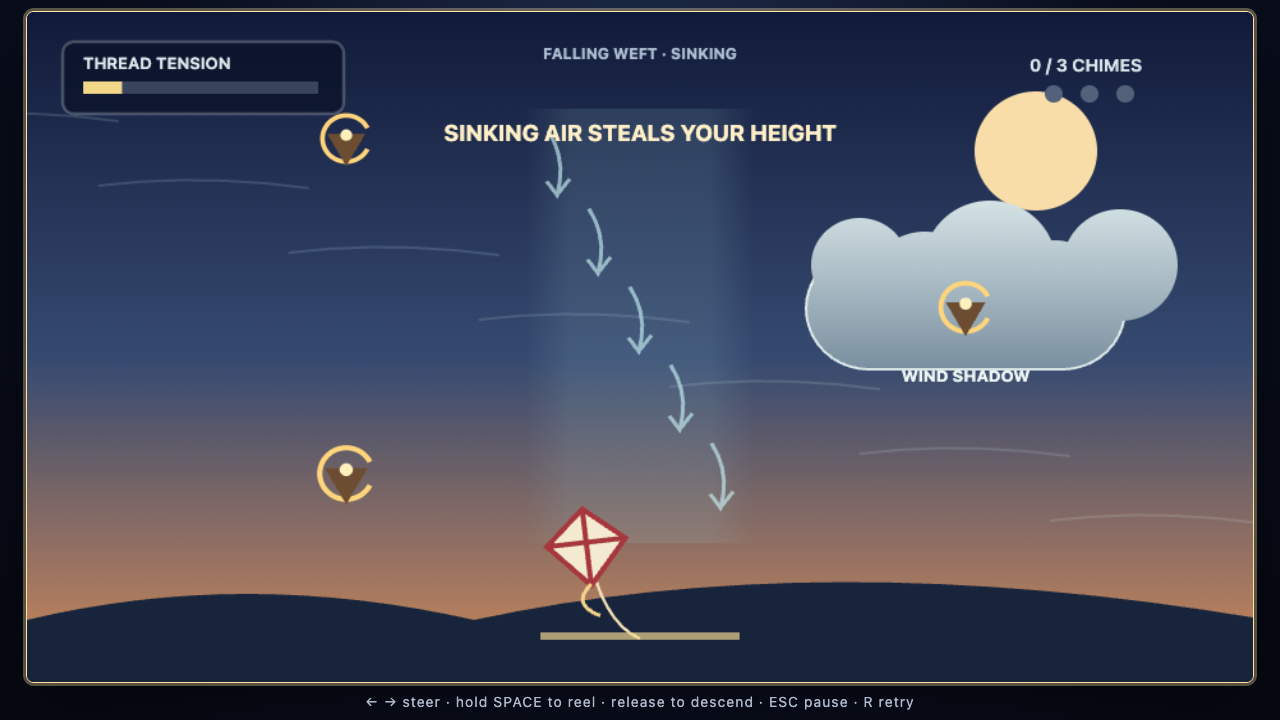
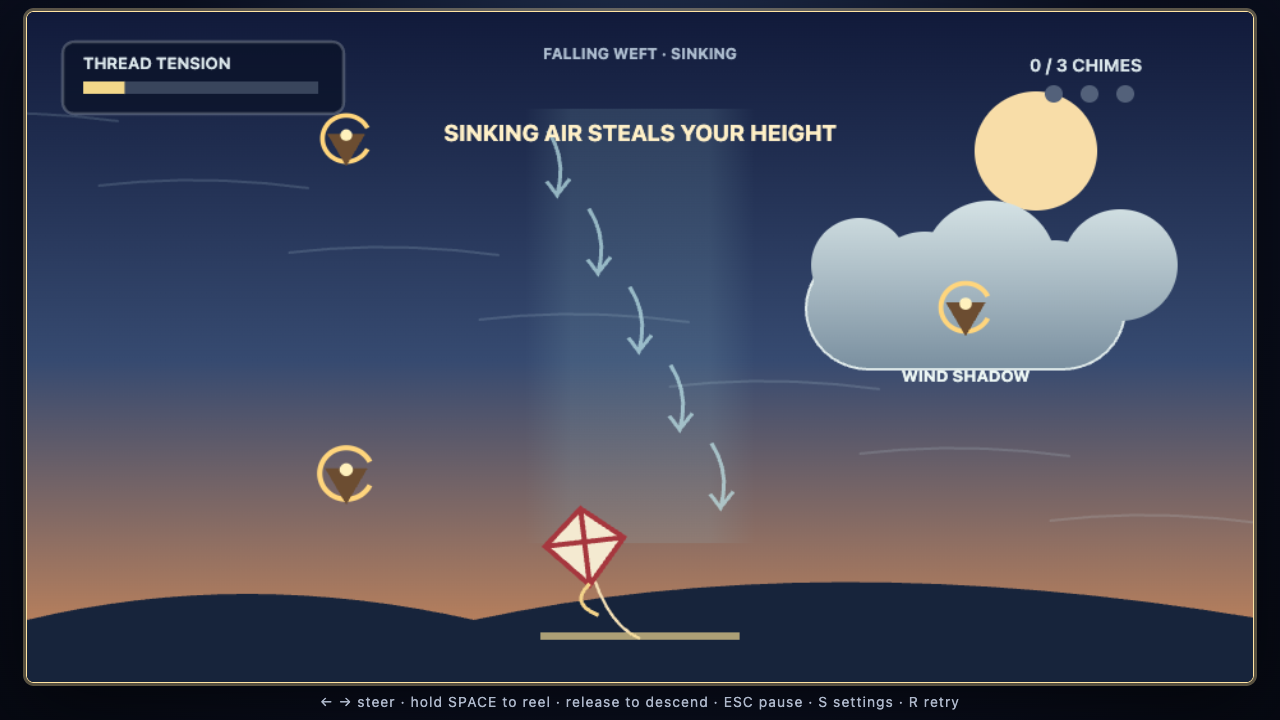
feat(ver11): persist settings and airspace progress

Changed region(s): [[0.2812, 0.9472, 0.75, 1.0], [0.4062, 0.7028, 0.5, 0.8556]]

diff --git a/ver11/game/src/main.js b/ver11/game/src/main.js
@@ -1,15 +1,28 @@
 import "./style.css";
 import { WIDTH, HEIGHT, FIXED_STEP, AIRSPACES, accessibleStatus, airspaceFor, createGame, downdraftAt, isSheltered, retry, startGame, togglePause, update, windAt } from "./model.js";
+import { DEFAULT_PREFERENCES, STORAGE_KEY, parsePreferences, serializePreferences, unlockAirspace } from "./preferences.js";
 
 const canvas = document.querySelector("#game");
 const ctx = canvas.getContext("2d");
 const live = document.querySelector("#live");
-const game = createGame();
+function loadPreferences() {
+  try { return parsePreferences(localStorage.getItem(STORAGE_KEY), AIRSPACES.length - 1); }
+  catch { return { ...DEFAULT_PREFERENCES }; }
+}
+
+let preferences = loadPreferences();
+const game = createGame(preferences.unlockedAirspace);
 const keys = new Set();
 let last = performance.now();
 let accumulator = 0;
 let audio;
 let lastAccessible = "";
+let settingsOpen = false;
+let selectedSetting = 0;
+
+function savePreferences() {
+  try { localStorage.setItem(STORAGE_KEY, serializePreferences(preferences)); } catch { /* Play remains available without storage. */ }
+}
 
 function ensureAudio() {
   if (!audio) audio = new AudioContext();
@@ -17,13 +30,13 @@ function ensureAudio() {
 }
 
 function tone(frequency, duration = 0.12, volume = 0.05, delay = 0) {
-  if (!audio) return;
+  if (!audio || preferences.volume === 0) return;
   const oscillator = audio.createOscillator();
   const gain = audio.createGain();
   oscillator.type = "sine";
   oscillator.frequency.value = frequency;
   gain.gain.setValueAtTime(0.001, audio.currentTime + delay);
-  gain.gain.exponentialRampToValueAtTime(volume, audio.currentTime + delay + 0.015);
+  gain.gain.exponentialRampToValueAtTime(volume * preferences.volume, audio.currentTime + delay + 0.015);
   gain.gain.exponentialRampToValueAtTime(0.001, audio.currentTime + delay + duration);
   oscillator.connect(gain).connect(audio.destination);
   oscillator.start(audio.currentTime + delay);
@@ -38,11 +51,42 @@ function handleEvents(events) {
   }
 }
 
+function openSettings() {
+  keys.clear();
+  if (game.mode === "playing") togglePause(game);
+  settingsOpen = true;
+}
+
+function closeSettings() {
+  settingsOpen = false;
+  canvas.focus();
+}
+
+function adjustSetting(direction) {
+  if (selectedSetting === 0) preferences = { ...preferences, volume: Math.max(0, Math.min(1, preferences.volume + direction * 0.25)) };
+  else preferences = { ...preferences, reducedMotion: !preferences.reducedMotion };
+  savePreferences();
+}
+
 window.addEventListener("keydown", (event) => {
-  if (["ArrowLeft", "ArrowRight", "Space", "Enter", "Escape"].includes(event.code)) event.preventDefault();
-  if (event.repeat && ["Enter", "Escape", "KeyR"].includes(event.code)) return;
+  if (["ArrowLeft", "ArrowRight", "ArrowUp", "ArrowDown", "Space", "Enter", "Escape"].includes(event.code)) event.preventDefault();
+  if (event.repeat && ["Enter", "Escape", "KeyR", "KeyS"].includes(event.code)) return;
+  if (settingsOpen) {
+    if (event.code === "Escape" || event.code === "KeyS") closeSettings();
+    else if (event.code === "ArrowUp" || event.code === "ArrowDown") selectedSetting = selectedSetting === 0 ? 1 : 0;
+    else if (event.code === "ArrowLeft") adjustSetting(-1);
+    else if (event.code === "ArrowRight" || event.code === "Enter") adjustSetting(1);
+    return;
+  }
+  if (event.code === "KeyS") { openSettings(); return; }
   keys.add(event.code);
-  if (event.code === "Enter") { ensureAudio(); startGame(game); canvas.focus(); }
+  if (event.code === "Enter") {
+    ensureAudio();
+    const previousAirspace = game.airspace;
+    startGame(game);
+    if (game.airspace !== previousAirspace) { preferences = unlockAirspace(preferences, game.airspace); savePreferences(); }
+    canvas.focus();
+  }
   if (event.code === "Escape") togglePause(game);
   if (event.code === "KeyR") { ensureAudio(); retry(game); }
 });
@@ -91,7 +135,8 @@ function drawDowndrafts() {
     ctx.save(); ctx.strokeStyle = "#c5edf0aa"; ctx.lineWidth = 3;
     for (let i = 0; i < 5; i++) {
       const x = draft.x + 25 + i * 32;
-      const offset = (game.elapsed * 90 + i * 63) % (draft.height + 55);
+      const visualTime = preferences.reducedMotion ? 0 : game.elapsed;
+      const offset = (visualTime * 90 + i * 63) % (draft.height + 55);
       const y = draft.y - 25 + offset;
       ctx.beginPath(); ctx.moveTo(x - 7, y - 34); ctx.quadraticCurveTo(x + 8, y - 10, x, y + 18);
       ctx.lineTo(x - 8, y + 7); ctx.moveTo(x, y + 18); ctx.lineTo(x + 10, y + 5); ctx.stroke();
@@ -110,7 +155,8 @@ function drawWind() {
   const alpha = wind.phase === "calm" ? 0.16 : wind.phase === "warning" ? 0.42 : 0.8;
   ctx.save(); ctx.globalAlpha = alpha; ctx.strokeStyle = wind.phase === "gust" ? "#fff0c0" : "#cce8ee"; ctx.lineWidth = wind.phase === "gust" ? 4 : 2;
   for (let i = 0; i < 7; i++) {
-    const offset = ((game.elapsed * (wind.phase === "gust" ? 210 : 55) + i * 149) % 1080) - 60;
+    const visualTime = preferences.reducedMotion ? 0 : game.elapsed;
+    const offset = ((visualTime * (wind.phase === "gust" ? 210 : 55) + i * 149) % 1080) - 60;
     const x = wind.direction > 0 ? offset : WIDTH - offset;
     const y = 86 + i * 54;
     ctx.beginPath(); ctx.moveTo(x - wind.direction * 80, y); ctx.quadraticCurveTo(x, y - 10, x + wind.direction * 85, y + 2); ctx.stroke();
@@ -124,7 +170,7 @@ function drawWind() {
 
 function drawRibbon(ribbon, collected, index) {
   if (collected) return;
-  const pulse = 1 + Math.sin(game.elapsed * 3 + index) * 0.07;
+  const pulse = preferences.reducedMotion ? 1 : 1 + Math.sin(game.elapsed * 3 + index) * 0.07;
   ctx.save(); ctx.translate(ribbon.x, ribbon.y); ctx.scale(pulse, pulse);
   ctx.strokeStyle = "#ffd57c"; ctx.fillStyle = "#6c4d31"; ctx.lineWidth = 4;
   ctx.beginPath(); ctx.arc(0, 0, 20, Math.PI * 0.15, Math.PI * 1.85); ctx.stroke();
@@ -166,30 +212,51 @@ function overlay(title, subtitle, prompt) {
   ctx.fillStyle = "#ffe09a"; ctx.font = "700 15px system-ui"; ctx.fillText(prompt, WIDTH / 2, 306);
 }
 
+function drawSettings() {
+  ctx.fillStyle = "#071022ee"; ctx.fillRect(0, 0, WIDTH, HEIGHT);
+  ctx.textAlign = "center"; ctx.fillStyle = "#f5e6bc"; ctx.font = "700 46px Georgia, serif"; ctx.fillText("WIND TUNING", WIDTH / 2, 142);
+  ctx.fillStyle = "#9fb1c5"; ctx.font = "500 15px system-ui"; ctx.fillText("ARROWS CHANGE · S OR ESC CLOSE", WIDTH / 2, 176);
+  const rows = [
+    { label: "SOUND VOLUME", value: preferences.volume === 0 ? "MUTED" : `${Math.round(preferences.volume * 100)}%` },
+    { label: "REDUCED MOTION", value: preferences.reducedMotion ? "ON" : "OFF" },
+  ];
+  rows.forEach((row, index) => {
+    const y = 244 + index * 88;
+    roundRect(250, y - 34, 460, 64, 8, selectedSetting === index ? "#273c58" : "#101d35", selectedSetting === index ? "#ffe09a" : "#52647b");
+    ctx.textAlign = "left"; ctx.fillStyle = "#d7e2e7"; ctx.font = "650 16px system-ui"; ctx.fillText(row.label, 278, y + 6);
+    ctx.textAlign = "right"; ctx.fillStyle = selectedSetting === index ? "#ffe09a" : "#b9c7d2"; ctx.fillText(`‹  ${row.value}  ›`, 680, y + 6);
+  });
+  ctx.textAlign = "center"; ctx.fillStyle = "#91a5b8"; ctx.font = "400 14px system-ui";
+  ctx.fillText("Progress and settings save automatically on this device.", WIDTH / 2, 438);
+}
+
 function draw() {
   drawSky(); drawWind(); drawDowndrafts(); drawClouds();
   airspaceFor(game).ribbons.forEach((r, i) => drawRibbon(r, game.ribbons[i], i));
   if (game.mode !== "title") { drawKite(); drawHud(); }
-  if (game.mode === "title") overlay("GALE THREAD", "read the gust · mind the thread · bring three chimes home", "PRESS ENTER TO LAUNCH");
-  if (game.mode === "paused") overlay("WIND HELD", "the thread waits with you", "ESC TO CONTINUE · R TO RETRY");
+  if (game.mode === "title") overlay("GALE THREAD", `continue from ${airspaceFor(game).name.toLowerCase()} · bring three chimes home`, "ENTER TO LAUNCH · S SETTINGS");
+  if (game.mode === "paused") overlay("WIND HELD", "the thread waits with you", "ESC CONTINUE · S SETTINGS · R RETRY");
   if (game.mode === "lost") overlay("THREAD PARTED", "the gale took the line, not the lesson", "ENTER OR R TO TRY AGAIN");
   if (game.mode === "won" && game.airspace === 0) overlay("FIRST CHIMES RETURN", "the silver cloud waits beyond the open wind", "ENTER TO CROSS INTO CLOUD LEE");
   if (game.mode === "won" && game.airspace === 1) overlay("TWO SKIES ANSWER", "a falling seam divides the final sky", "ENTER TO CROSS INTO FALLING WEFT");
   if (game.mode === "won" && game.airspace === AIRSPACES.length - 1) overlay("THREE SKIES ANSWER", "nine chimes return on three unbroken threads", "ENTER TO FLY FALLING WEFT AGAIN");
+  if (settingsOpen) drawSettings();
 }
 
 function frame(now) {
   accumulator += Math.min((now - last) / 1000, 0.1); last = now;
   while (accumulator >= FIXED_STEP) {
     const steer = (keys.has("ArrowRight") || keys.has("KeyD") ? 1 : 0) - (keys.has("ArrowLeft") || keys.has("KeyA") ? 1 : 0);
-    handleEvents(update(game, { steer, reel: keys.has("Space") }, FIXED_STEP));
+    if (!settingsOpen) handleEvents(update(game, { steer, reel: keys.has("Space") }, FIXED_STEP));
     accumulator -= FIXED_STEP;
   }
   draw();
-  const status = accessibleStatus(game);
+  const status = settingsOpen
+    ? `Settings. ${selectedSetting === 0 ? "Sound volume" : "Reduced motion"} selected. Sound volume ${Math.round(preferences.volume * 100)} percent. Reduced motion ${preferences.reducedMotion ? "on" : "off"}. Use arrow keys to change. Press S or Escape to close.`
+    : accessibleStatus(game);
   canvas.setAttribute("aria-label", status);
   if (status !== lastAccessible && (game.mode !== "playing" || Math.floor(game.elapsed) % 3 === 0)) { live.textContent = status; lastAccessible = status; }
-  window.__GALE_THREAD__ = { snapshot: () => structuredClone(game) };
+  window.__GALE_THREAD__ = { snapshot: () => structuredClone({ ...game, preferences, settingsOpen, selectedSetting }) };
   requestAnimationFrame(frame);
 }
 requestAnimationFrame(frame);

diff --git a/ver11/game/e2e/gale-thread.spec.js b/ver11/game/e2e/gale-thread.spec.js
@@ -96,9 +96,49 @@ test("the third airspace crosses sinking air and completes the M2 route", async 
   await pilot(page, [{ x: 720, y: 382 }, { x: 245, y: 238 }, { x: 710, y: 108 }]);
   await page.keyboard.press("Enter");
   await expect.poll(async () => (await snapshot(page)).airspace).toBe(2);
+  await expect.poll(async () => page.evaluate(() => JSON.parse(localStorage.getItem("gale-thread:v11")).unlockedAirspace)).toBe(2);
   await page.screenshot({ path: evidence("m2-falling-weft-entry.png") });
   const crossedDowndraft = await pilot(page, [{ x: 250, y: 372 }, { x: 735, y: 238 }, { x: 250, y: 102 }], "m2-falling-weft-sinking.png");
   expect(crossedDowndraft).toBe(true);
   await page.screenshot({ path: evidence("m2-falling-weft-won.png") });
   await expect(page.locator("canvas")).toHaveAttribute("aria-label", /Three skies answer/);
+});
+
+test("settings and reached airspace persist across reloads", async ({ page }) => {
+  await page.goto("/");
+  await page.evaluate(() => localStorage.setItem("gale-thread:v11", JSON.stringify({
+    version: 1, unlockedAirspace: 2, volume: 0.75, reducedMotion: false,
+  })));
+  await page.reload();
+  await expect.poll(async () => (await snapshot(page))?.airspace).toBe(2);
+  let state = await snapshot(page);
+  expect(state.airspace).toBe(2);
+  expect(state.mode).toBe("title");
+  await expect(page.locator("canvas")).toHaveAttribute("aria-label", /GALE THREAD title/);
+
+  await page.keyboard.press("s");
+  await expect(page.locator("canvas")).toHaveAttribute("aria-label", /Sound volume 75 percent/);
+  await page.keyboard.press("ArrowRight");
+  await page.keyboard.press("ArrowDown");
+  await page.keyboard.press("Enter");
+  await expect(page.locator("canvas")).toHaveAttribute("aria-label", /Reduced motion on/);
+  await page.screenshot({ path: evidence("m2-settings.png") });
+  await page.keyboard.press("Escape");
+  await page.reload();
+  await expect.poll(async () => (await snapshot(page))?.airspace).toBe(2);
+  state = await snapshot(page);
+  expect(state.airspace).toBe(2);
+  expect(state.preferences.volume).toBe(1);
+  expect(state.preferences.reducedMotion).toBe(true);
+});
+
+test("a corrupt save safely returns to defaults", async ({ page }) => {
+  await page.goto("/");
+  await page.evaluate(() => localStorage.setItem("gale-thread:v11", "{not-json"));
+  await page.reload();
+  await expect.poll(async () => (await snapshot(page))?.airspace).toBe(0);
+  const state = await snapshot(page);
+  expect(state.airspace).toBe(0);
+  expect(state.preferences.volume).toBe(0.75);
+  expect(state.preferences.reducedMotion).toBe(false);
 });

diff --git a/ver11/game/src/preferences.js b/ver11/game/src/preferences.js
@@ -1,0 +1,47 @@
+export const STORAGE_KEY = "gale-thread:v11";
+
+export const DEFAULT_PREFERENCES = Object.freeze({
+  version: 1,
+  unlockedAirspace: 0,
+  volume: 0.75,
+  reducedMotion: false,
+});
+
+export function parsePreferences(raw, maxAirspace = 2) {
+  if (typeof raw !== "string" || raw.length > 2_000) return { ...DEFAULT_PREFERENCES };
+  try {
+    const value = JSON.parse(raw);
+    const valid = value
+      && value.version === 1
+      && Number.isInteger(value.unlockedAirspace)
+      && value.unlockedAirspace >= 0
+      && value.unlockedAirspace <= maxAirspace
+      && typeof value.volume === "number"
+      && Number.isFinite(value.volume)
+      && value.volume >= 0
+      && value.volume <= 1
+      && typeof value.reducedMotion === "boolean";
+    if (!valid) return { ...DEFAULT_PREFERENCES };
+    return {
+      version: 1,
+      unlockedAirspace: value.unlockedAirspace,
+      volume: Math.round(value.volume * 4) / 4,
+      reducedMotion: value.reducedMotion,
+    };
+  } catch {
+    return { ...DEFAULT_PREFERENCES };
+  }
+}
+
+export function serializePreferences(preferences) {
+  return JSON.stringify({
+    version: 1,
+    unlockedAirspace: preferences.unlockedAirspace,
+    volume: preferences.volume,
+    reducedMotion: preferences.reducedMotion,
+  });
+}
+
+export function unlockAirspace(preferences, airspace) {
+  return { ...preferences, unlockedAirspace: Math.max(preferences.unlockedAirspace, airspace) };
+}

diff --git a/ver11/game/tests/preferences.test.js b/ver11/game/tests/preferences.test.js
@@ -1,0 +1,19 @@
+import test from "node:test";
+import assert from "node:assert/strict";
+import { DEFAULT_PREFERENCES, parsePreferences, serializePreferences, unlockAirspace } from "../src/preferences.js";
+
+test("valid saved progress and accessibility settings round-trip", () => {
+  const saved = { version: 1, unlockedAirspace: 2, volume: 0.25, reducedMotion: true };
+  assert.deepEqual(parsePreferences(serializePreferences(saved)), saved);
+});
+
+test("missing, malformed, or out-of-range saves recover to safe defaults", () => {
+  for (const raw of [null, "{broken", JSON.stringify({ version: 1, unlockedAirspace: 99, volume: 4, reducedMotion: "yes" })]) {
+    assert.deepEqual(parsePreferences(raw), DEFAULT_PREFERENCES);
+  }
+});
+
+test("unlocking never loses previously reached progress", () => {
+  const current = { ...DEFAULT_PREFERENCES, unlockedAirspace: 2 };
+  assert.equal(unlockAirspace(current, 1).unlockedAirspace, 2);
+});

diff --git a/ver11/game/index.html b/ver11/game/index.html
@@ -10,7 +10,7 @@
     <main>
       <canvas id="game" width="960" height="540" tabindex="0" role="application" aria-label="GALE THREAD title. Press Enter to begin."></canvas>
       <p id="live" class="sr-only" aria-live="polite"></p>
-      <p class="controls">← → steer · hold SPACE to reel · release to descend · ESC pause · R retry</p>
+      <p class="controls">← → steer · hold SPACE to reel · release to descend · ESC pause · S settings · R retry</p>
     </main>
     <script type="module" src="/src/main.js"></script>
   </body>

diff --git a/ver11/docs/status.md b/ver11/docs/status.md
@@ -5,7 +5,7 @@
 ## 現在状態
 
 - 現在版: v11.0 (`ver11/`)
-- 段階: M0・M1完了、M2進行中。全3空域を連続プレイ可能
+- 段階: M0・M1・M2完了。全3空域、設定、進行保存を検証済み
 - 過去版変更: v10.1最終批評のみ。既存の未コミット`ver07.1/`差分を保持
 
 ## 完成条件
@@ -31,11 +31,15 @@
 - 第3空域「FALLING WEFT」を追加した。中央の下降気流では巻き上げが鈍り、解放中は約2倍の速さで下降するため、張力を逃がす安全入力にも高度の代償が生まれる。右上の雲帯と左右交互の片配置により、既存規則を同時に使う。
 - 単体16/16、構文検査、production build、Chrome E2E 4/4に合格した。実キー入力で3空域9片、雲帯、下降気流横断、最終着地まで通した。
 - `m2-falling-weft-entry.png`、`m2-falling-weft-sinking.png`、`m2-falling-weft-won.png`を目視し、下降矢印、雲、片、凧、糸、状態、最終結果を判別できることを確認した。導入文と常設ラベルの重なりは、導入中に常設ラベルを隠して解消した。
+- Sから開く設定画面へ音量5段階と動き軽減を追加した。動き軽減は風線、下降矢印、片の脈動だけを止め、規則の時間と予告は保つ。設定中はプレイを安全に停止する。
+- version付きlocalStorageへ設定と最遠到達空域を保存し、次回はその空域から再開する。JSON破損、型・範囲不正、storage例外は既定値へ戻し、プレイを継続する。
+- 単体19/19、構文検査、production build、Chrome E2E 6/6に合格した。全3空域通しに加え、実キー設定、再読込、到達空域保存、破損復旧を確認した。
+- `m2-settings.png`を目視し、1280×720で選択枠、音量値、動き軽減値、操作説明が欠けや重なりなく判別できることを確認した。M2を完了する。
 
 ## 未解決課題
 
-- 音量と動き軽減、進行保存は未実装。
+- M3の後半3空域と終演は未実装。
 
 ## 次の最優先作業
 
-M2の設定と保存を実装する。音量・動き軽減をキーボードで変更できる設定画面と、到達済み空域・設定のlocalStorage保存、破損時の安全な初期化を一つの製品機能として検証する。
+M3第4空域を実装する。既存の雲帯・下降気流とは異なり、予告された突風を位置取りの利益へ変える規則を一つだけ導入し、片配置、規則テスト、実キー通し、画面証拠まで完成させる。

diff --git a/ver11/README.md b/ver11/README.md
@@ -6,8 +6,8 @@
 
 - M0 白紙企画比較・独立性確認: 完了
 - M1 中核縦切り: 完了。1空域、突風予告、張力、3片、帰還、切断、再挑戦を実装・検証済み
-- M2 段階導入: 進行中。3空域を連続プレイでき、雲帯と下降気流を実装済み
-- 単体16/16、構文検査、production build、Chrome E2E 4/4に合格
+- M2 段階導入: 完了。3空域、雲帯、下降気流、設定、進行保存を実装済み
+- 単体19/19、構文検査、production build、Chrome E2E 6/6に合格
 
 ## 起動
 
@@ -17,9 +17,9 @@ npm install
 npm run dev
 ```
 
-Enterで開始する。左右キーまたはA/Dで凧を操り、Spaceを押している間は糸を巻いて上昇する。Spaceを離すと糸を緩めて下降する。空の帯に表示される突風予告中に進路を整え、突風が吹いている間は巻き続けない。三つの風鈴片を集めたら、地上中央の着地点へ降りる。第2空域では銀色の雲帯へ入ると突風を遮れる。第3空域では下降気流の矢印帯を横切る間、上昇が鈍り、糸を緩めると高度を速く失う。Escapeでポーズ、Rで再挑戦する。
+Enterで開始する。左右キーまたはA/Dで凧を操り、Spaceを押している間は糸を巻いて上昇する。Spaceを離すと糸を緩めて下降する。空の帯に表示される突風予告中に進路を整え、突風が吹いている間は巻き続けない。三つの風鈴片を集めたら、地上中央の着地点へ降りる。第2空域では銀色の雲帯へ入ると突風を遮れる。第3空域では下降気流の矢印帯を横切る間、上昇が鈍り、糸を緩めると高度を速く失う。Escapeでポーズ、Rで再挑戦する。Sで設定を開き、矢印キーで音量と動き軽減を変更する。設定と到達済み空域はブラウザへ自動保存され、次回は最も先の空域から再開する。
 
-`npm run verify`で規則テスト、構文検査、production build、Chrome E2Eをまとめて実行する。E2Eは実キー入力でポーズ、糸切断、再挑戦、全3空域の9片回収、雲帯利用、下降気流横断、着地までを検証する。
+`npm run verify`で規則テスト、構文検査、production build、Chrome E2Eをまとめて実行する。E2Eは実キー入力でポーズ、糸切断、再挑戦、全3空域の9片回収、雲帯利用、下降気流横断、着地に加え、設定・進行の再読込と破損保存の復旧を検証する。
 
 ## 独立性
 

diff --git a/ver11/docs/log.md b/ver11/docs/log.md
@@ -26,3 +26,10 @@
 - 右上に雲帯を併設し、既存の突風予告、張力、風下の安全地帯を同時に使う第3段階へ発展させた。下降矢印、帯、HUD、accessible nameから同じ領域判定を伝える。
 - 単体16/16、構文検査、production build、Chrome E2E 4/4に合格した。実キー入力で第1空域から全9片を回収し、下降気流を横断して最終着地まで約52秒で通した。
 - 入口、下降気流内、最終勝利を撮影して目視した。導入文と常設ラベルの重なりを発見し、導入中だけ常設ラベルを隠して修正した。次は音量・動き軽減設定と進行保存を実装する。
+
+## 2026-11-06 — M2 設定・進行保存
+
+- Sで開く`WIND TUNING`へ音量5段階と動き軽減を実装した。上下で項目選択、左右またはEnterで変更し、プレイ中は自動的にポーズする。動き軽減は風線、下降矢印、片の脈動を静止させ、規則の時間は保った。
+- version付きlocalStorageへ設定と最遠到達空域を保存する。再読込時は最遠空域から再開し、不正JSON、型・範囲不正、storage例外は既定値へ安全に戻す。
+- 単体19/19、構文検査、production buildに合格した。Chrome E2Eは既存の全3空域通し4件に、設定・再読込と破損復旧2件を加え、合計6/6に合格した。
+- `m2-settings.png`を目視し、選択枠、100%音量、動き軽減ON、操作説明が1280×720内で明瞭なことを確認した。M2を完了し、次は突風を利益へ変える第4空域へ進む。

diff --git a/ver11/docs/03-technical-design.md b/ver11/docs/03-technical-design.md
@@ -5,6 +5,7 @@
 - Vite + Vanilla JavaScript + Canvas 2D
 - `model.js`: 固定時間刻みで進む決定的規則。DOM、Audio、描画へ依存しない
 - `main.js`: 入力、固定刻みループ、Canvas描画、Web Audio、ARIA通知
+- `preferences.js`: version付きlocalStorageデータの検証、直列化、到達空域の単調更新
 - Node標準test runnerで規則を検証する
 
 ## 決定性
@@ -20,3 +21,5 @@
 ## アクセシビリティ
 
 Canvasはフォーカス可能なapplicationとし、状態・風・張力・回収数をaccessible nameとlive regionへ反映する。色だけでなく線幅、文字、形で状態を区別する。
+
+設定画面も同じCanvasのaccessible nameへ選択項目と両設定値を全文で出す。動き軽減は描画時刻だけを固定し、決定的な規則時刻を変更しない。保存値はversion、空域範囲、音量範囲、boolean型を全て検査し、欠損・破損・将来形式・容量超過時は既定値へ安全に戻す。localStorage自体が使用不能でもゲーム進行を止めない。

diff --git a/ver11/docs/01-game-design.md b/ver11/docs/01-game-design.md
@@ -37,3 +37,9 @@
 - 下降気流内では巻き上げによる上昇が遅くなり、糸を緩めると通常のほぼ2倍の速度で高度を失う。
 - 左低空、右中空、左高空の順で片を置き、中央帯を最低2回横断させる。突風に対して緩める安全策にも、高度を失う位置取りの代償が生まれる。
 - 下降矢印、半透明の帯、`SINKING AIR`、HUDの`SINKING`、動的accessible nameで状態を色以外にも伝える。
+
+## M2 設定と再開
+
+- Sで設定を開き、上下で項目、左右またはEnterで値を変更する。プレイ中に開く場合は安全にポーズする。
+- 音量は0〜100%の5段階。動き軽減は風線、下降矢印、片の脈動を静止させるが、風のフェーズやゲーム規則は変えない。
+- 新しい空域へ入った時点で到達状況を保存し、再訪時は最も先の到達済み空域から始める。

diff --git a/ver11/docs/04-quality-plan.md b/ver11/docs/04-quality-plan.md
@@ -16,6 +16,9 @@
 - 第2空域から第3空域へ連続遷移し、下降気流内外の上昇・下降速度差が規則テストに現れる。
 - 実キー入力だけで下降気流を横断し、全9片と最終着地まで到達する。
 - 第3空域の入口、下降気流内、最終勝利を目視し、下降矢印、雲、片、凧、糸、状態表示が判別できる。
+- 設定を実キーだけで変更し、音量・動き軽減・到達空域が再読込後も維持される。
+- 不正JSONと範囲外保存を既定値へ復旧し、起動不能にしない。
+- 設定画面の選択状態、値、操作説明を目視し、accessible nameからも同じ値を取得できる。
 
 ## 完成時ゲート
 
